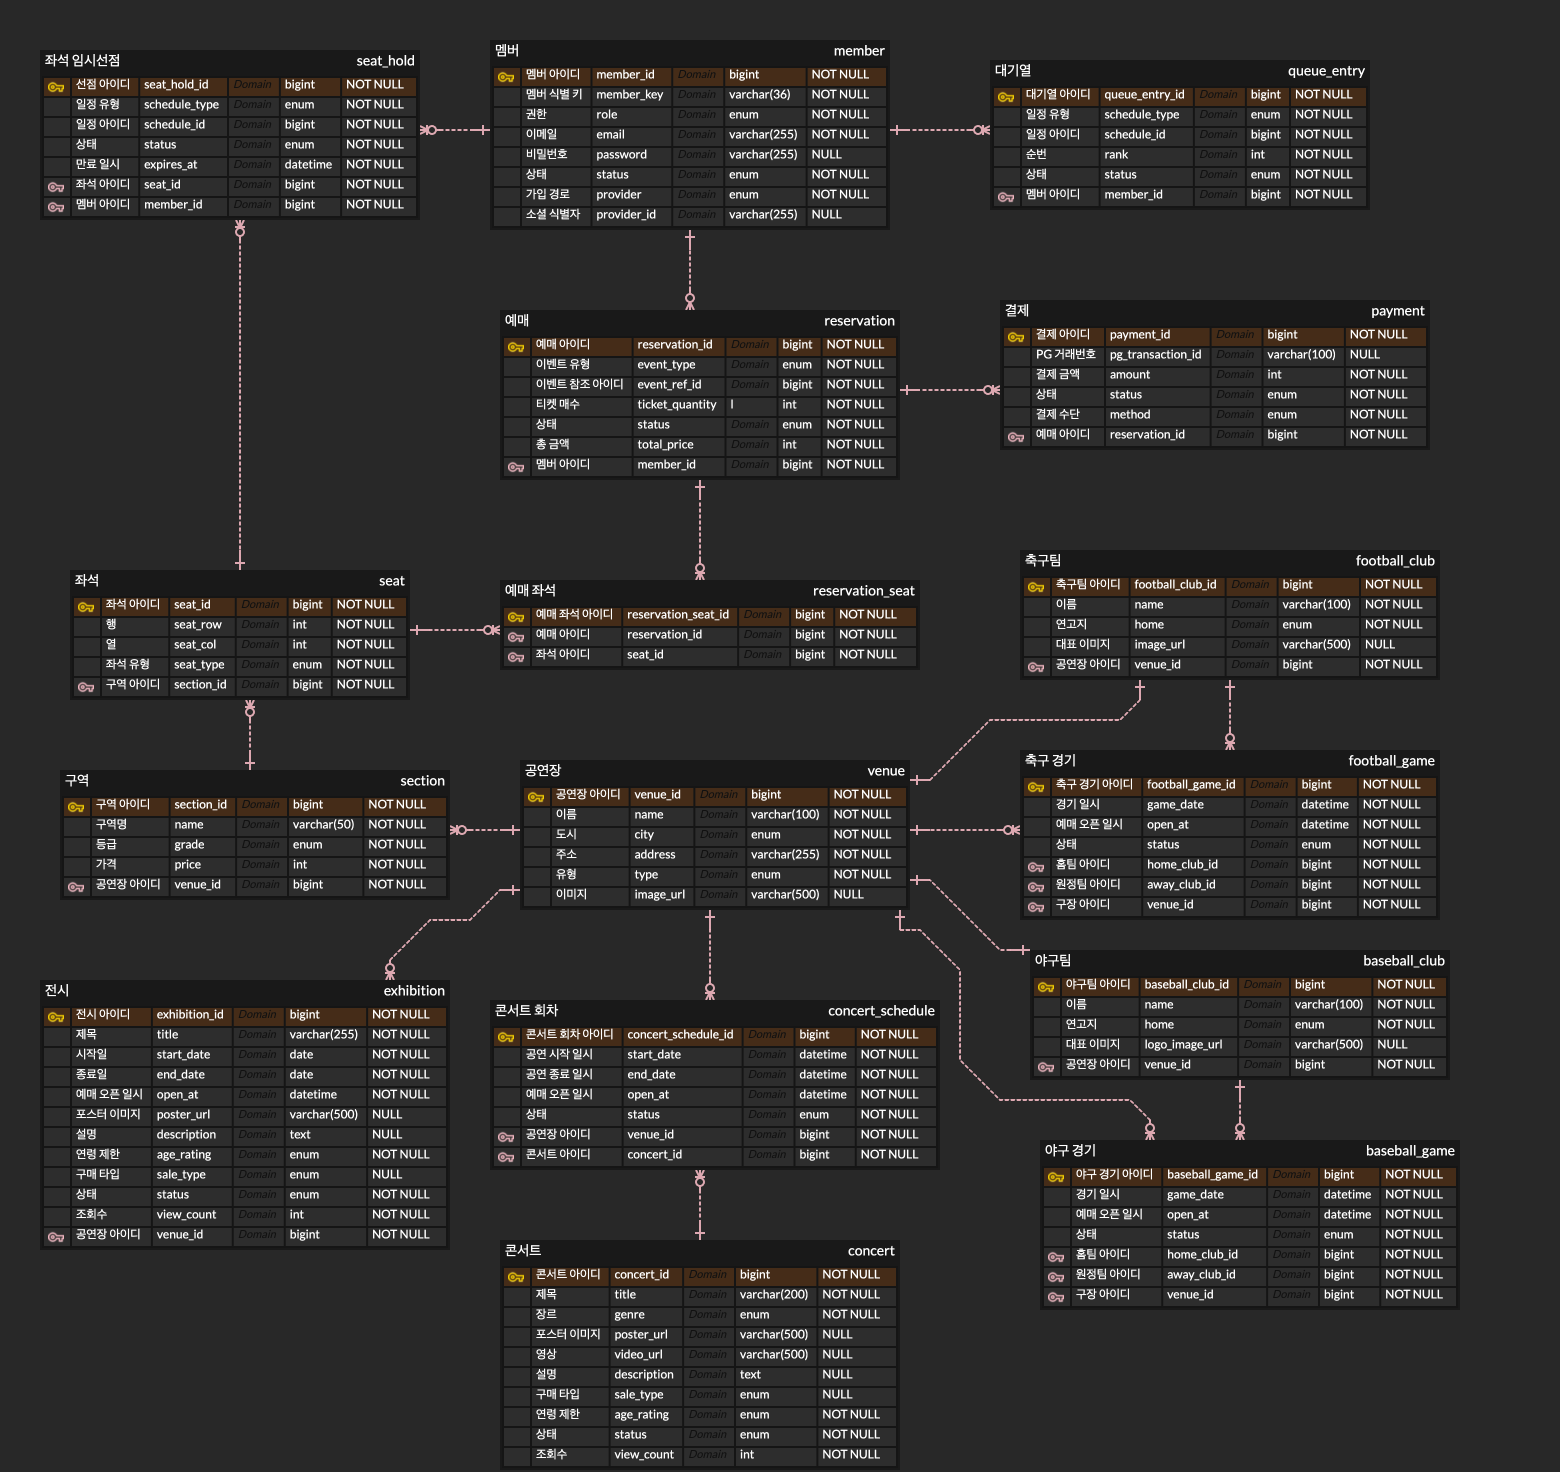
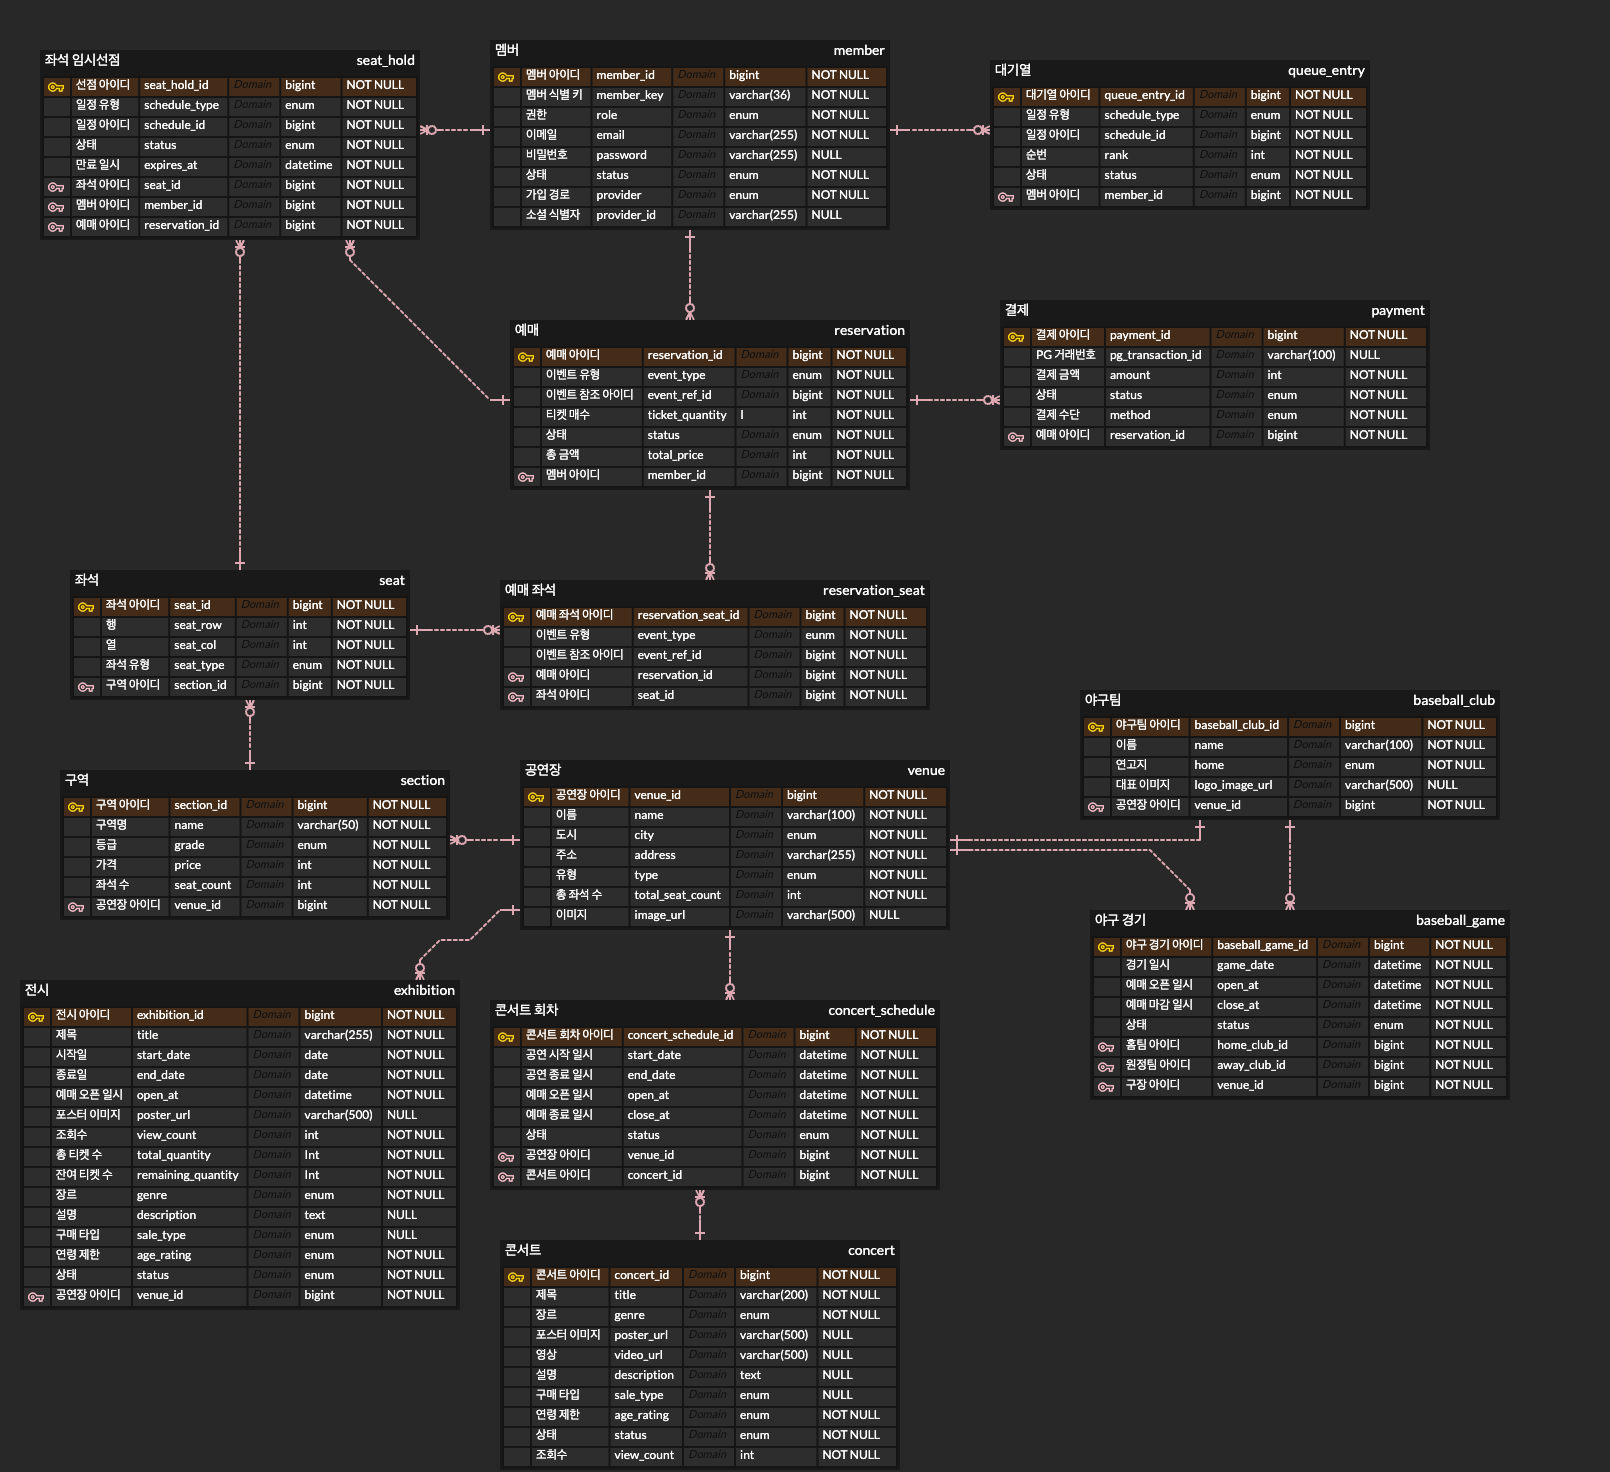
docs : 문서 최신화

diff --git a/API_LIST.md b/API_LIST.md
@@ -986,6 +986,24 @@ GET /api/v1/reservations/seat-availability
 }
 ```
 
+#### Rule
+
+- 인증된 사용자만 요청할 수 있다. 성공 시 HTTP 200을 반환한다.
+- `eventRefId`와 구역 ID는 양수이며, `sectionIds`는 중복 제거 후 1~5개여야 한다.
+- 이벤트가 존재하고 조회 시점이 `openAt <= 현재 시각 < closeAt`이어야 한다.
+- 콘서트 회차는 `OPEN` 또는 `UPCOMING`, 야구 경기는 `OPEN` 또는 `SCHEDULED` 상태만 허용한다.
+- `CONFIRMED` 또는 만료되지 않은 `HOLDING` 점유가 있는 좌석은 `isAvailable: false`로 반환한다.
+- 현재 구현은 구역이 이벤트 장소에 속하는지 검증하지 않으며, 존재하지 않는 구역은 조회 결과에서 제외된다.
+
+#### Error
+
+| HTTP | Code | 메시지 |
+|---:|---|---|
+| 400 | `VALIDATION_ERROR` | 입력값이 올바르지 않습니다. (검증 항목별 메시지 반환) |
+| 401 | `UNAUTHORIZED` | 인증이 필요합니다. |
+| 404 | `EVENT_SCHEDULE_NOT_FOUND` | 존재하지 않는 이벤트 일정입니다. |
+| 409 | `EVENT_NOT_RESERVABLE` | 현재 예매할 수 없는 이벤트입니다. |
+
 ### 2. 좌석 점유 생성
 
 ```http
@@ -1018,22 +1036,26 @@ POST /api/v1/reservations/seat-holds
 
 #### Rule
 
-- 인증된 사용자만 요청할 수 있다.
+- 인증된 사용자만 요청할 수 있다. 성공 시 HTTP 201을 반환한다.
+- `eventRefId`와 좌석 ID는 양수이며, `seatIds`는 중복 제거 후 1~10개여야 한다. `paymentMethod`는 필수다.
 - `CONCERT`, `BASEBALL` 좌석형 이벤트만 요청할 수 있다.
 - 요청 좌석은 해당 이벤트 일정의 장소에 속해야 한다.
 - 예매 기간은 `openAt <= 요청 처리 시작 시각 < closeAt`이다. 기준 시각은 `createSeatHold()` 진입 시각이며, 이후 잠금 대기나 저장 중 마감 시각을 넘겨도 허용한다.
 - 콘서트 회차는 `OPEN` 또는 `UPCOMING`, 야구 경기는 `OPEN` 또는 `SCHEDULED` 상태에서 예매 기간에 들어오면 점유할 수 있다. 취소·마감·매진·종료 상태는 기간과 무관하게 거절한다.
-- `closeAt`은 신규 점유 마감 기준이며, 이미 생성된 점유의 만료 시각은 기존대로 생성 시점부터 5분이다.
+- `closeAt`은 신규 점유 마감 기준이며, 이미 생성된 점유의 유효 기간을 단축하지 않는다.
 - 이미 확정된 좌석 또는 만료되지 않은 점유 좌석은 다시 점유할 수 없다.
-- 점유 만료 시간은 생성 시점부터 5분이다.
+- 점유 만료 시각은 좌석 잠금 획득 후 점유 검사에 사용하는 시각부터 5분 뒤다.
+- `READ_COMMITTED` 트랜잭션과 비관적 쓰기 잠금으로 처리하며, 요청 좌석 중 하나라도 충돌하면 전체 요청을 거절한다.
 
 #### Error
 
 | HTTP | Code | 메시지 |
 |---:|---|---|
+| 400 | `VALIDATION_ERROR` | 입력값이 올바르지 않습니다. (검증 항목별 메시지 반환) |
 | 400 | `SEAT_VENUE_MISMATCH` | 이벤트 장소에 속하지 않는 좌석입니다. |
 | 401 | `UNAUTHORIZED` | 인증이 필요합니다. |
 | 404 | `EVENT_SCHEDULE_NOT_FOUND` | 존재하지 않는 이벤트 일정입니다. |
+| 404 | `MEMBER_NOT_FOUND` | 존재하지 않는 회원입니다. |
 | 404 | `SEAT_NOT_FOUND` | 존재하지 않는 좌석입니다. |
 | 409 | `SEAT_ALREADY_HELD` | 이미 선택할 수 없는 좌석입니다. |
 | 409 | `EVENT_NOT_RESERVABLE` | 현재 예매할 수 없는 이벤트입니다. |

diff --git a/RESERVATION_API_DRAFT.md b/RESERVATION_API_DRAFT.md
@@ -133,12 +133,13 @@
 
 사용자는 콘서트 회차 또는 야구 경기의 좌석 배치도를 조회합니다.
 
-서버는 좌석별 상태를 반환합니다.
+서버는 좌석별 선택 가능 여부를 `isAvailable`로 반환합니다.
 
-- `AVAILABLE`: 선택 가능
-- `HOLDING`: 다른 사용자가 임시 점유 중
-- `SELECTED_BY_ME`: 현재 사용자가 점유 중
-- `RESERVED`: 이미 예약 확정
+- `true`: 선택 가능. 유효한 점유나 확정 내역이 없는 좌석
+- `false`: 선택 불가. `CONFIRMED`이거나 `HOLDING`이면서 `expiresAt > 현재 시각`인 점유가 있는 좌석
+
+본인 점유 여부나 선택 불가 사유를 별도 상태로 구분하지 않습니다. 만료 시각이 지난
+`HOLDING`은 DB 상태 정리 전이라도 선택 가능한 것으로 판단합니다.
 
 ### 4.2 좌석 선점 및 예약 생성
 
@@ -158,6 +159,8 @@
 
 ### 4.3 결제 승인
 
+후속 결제 PR에서 구현합니다. 현재 좌석 점유 PR의 범위에는 포함하지 않습니다.
+
 PG 결제 성공 후 confirm API 또는 webhook에서 처리합니다.
 
 서버 처리:
@@ -171,6 +174,9 @@ PG 결제 성공 후 confirm API 또는 webhook에서 처리합니다.
 7. `SeatHold.CONFIRMED` 변경
 
 ### 4.4 결제 실패/만료
+
+결제 실패에 따른 상태 변경은 후속 결제 PR에서 구현합니다. 주기적인 만료 상태 정리는
+`Todo.md`의 스케줄러 작업으로 관리하며, 현재 좌석 점유 PR의 범위에는 포함하지 않습니다.
 
 결제 실패 또는 5분 만료 시 처리합니다.
 
@@ -232,10 +238,12 @@ PG 결제 성공 후 confirm API 또는 webhook에서 처리합니다.
 
 ## 6. 필요한 API 초안
 
-### 6.1 선택 불가 좌석 목록 조회
+### 6.1 좌석 목록 및 선택 가능 여부 조회
+
+요청한 구역의 전체 좌석을 반환하며, 각 좌석의 `isAvailable`로 선택 가능 여부를 표시합니다.
 
 ```http
-GET /api/v1/reservations/unavailable-seats
+GET /api/v1/reservations/seat-availability
 ```
 
 Query Parameters:
@@ -244,7 +252,7 @@ Query Parameters:
 |---|---:|---:|---|
 | `eventType` | `EventType` | Y | `CONCERT`, `BASEBALL` |
 | `eventRefId` | `Long` | Y | 콘서트 회차 ID 또는 야구 경기 ID |
-| `sectionId` | `Long` | N | 특정 구역의 선택 불가 좌석만 조회할 때 사용 |
+| `sectionIds` | `List<Long>` | Y | 조회할 구역 ID 목록, 중복 제거 후 1~5개 |
 
 Response Payload:
 
@@ -252,15 +260,28 @@ Response Payload:
 {
   "eventType": "CONCERT",
   "eventRefId": 10,
-  "seats": [
+  "sections": [
     {
       "sectionId": 1,
       "sectionName": "A구역",
       "sectionGrade": "VIP",
       "price": 150000,
-      "seatId": 1,
-      "seatRow": 1,
-      "seatCol": 1
+      "seatCount": 2,
+      "availableSeatCount": 1,
+      "seats": [
+        {
+          "seatId": 1,
+          "seatRow": 1,
+          "seatCol": 1,
+          "isAvailable": true
+        },
+        {
+          "seatId": 2,
+          "seatRow": 1,
+          "seatCol": 2,
+          "isAvailable": false
+        }
+      ]
     }
   ]
 }
